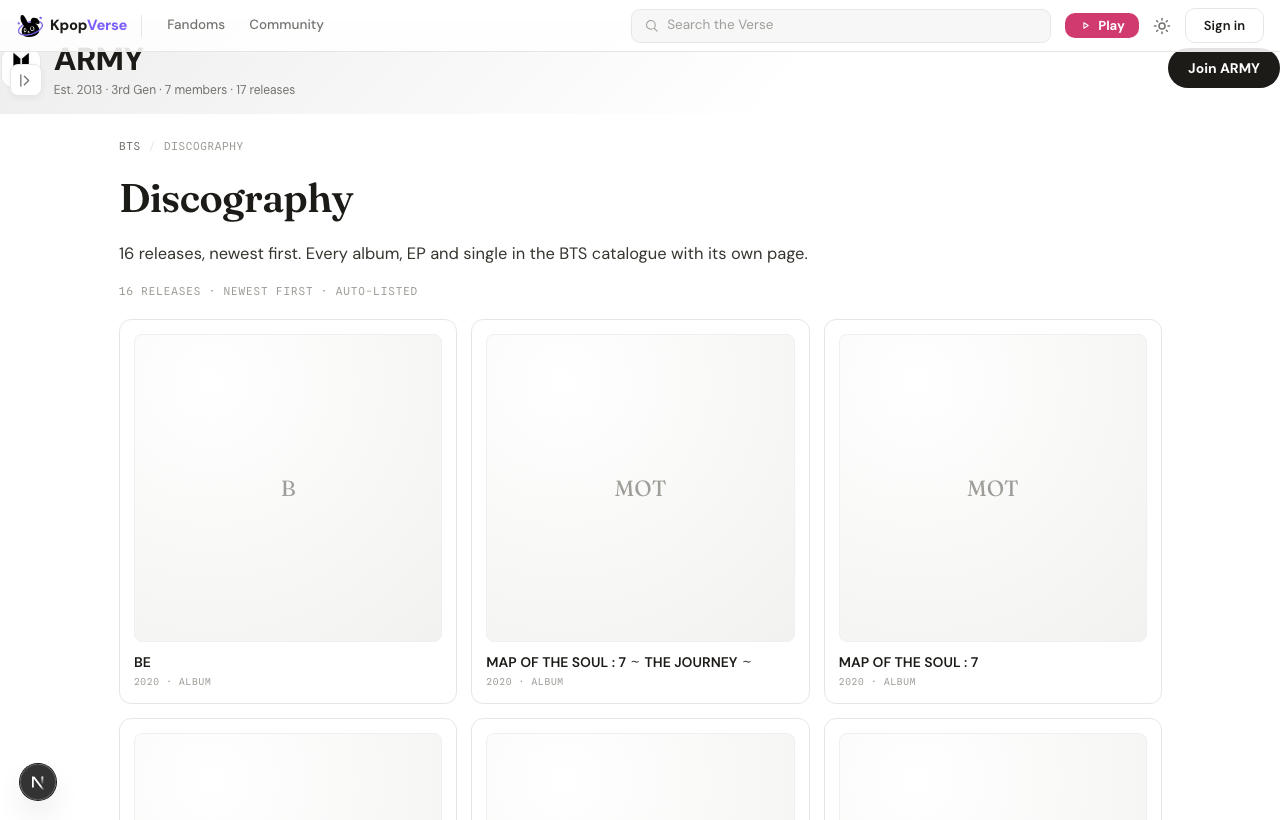
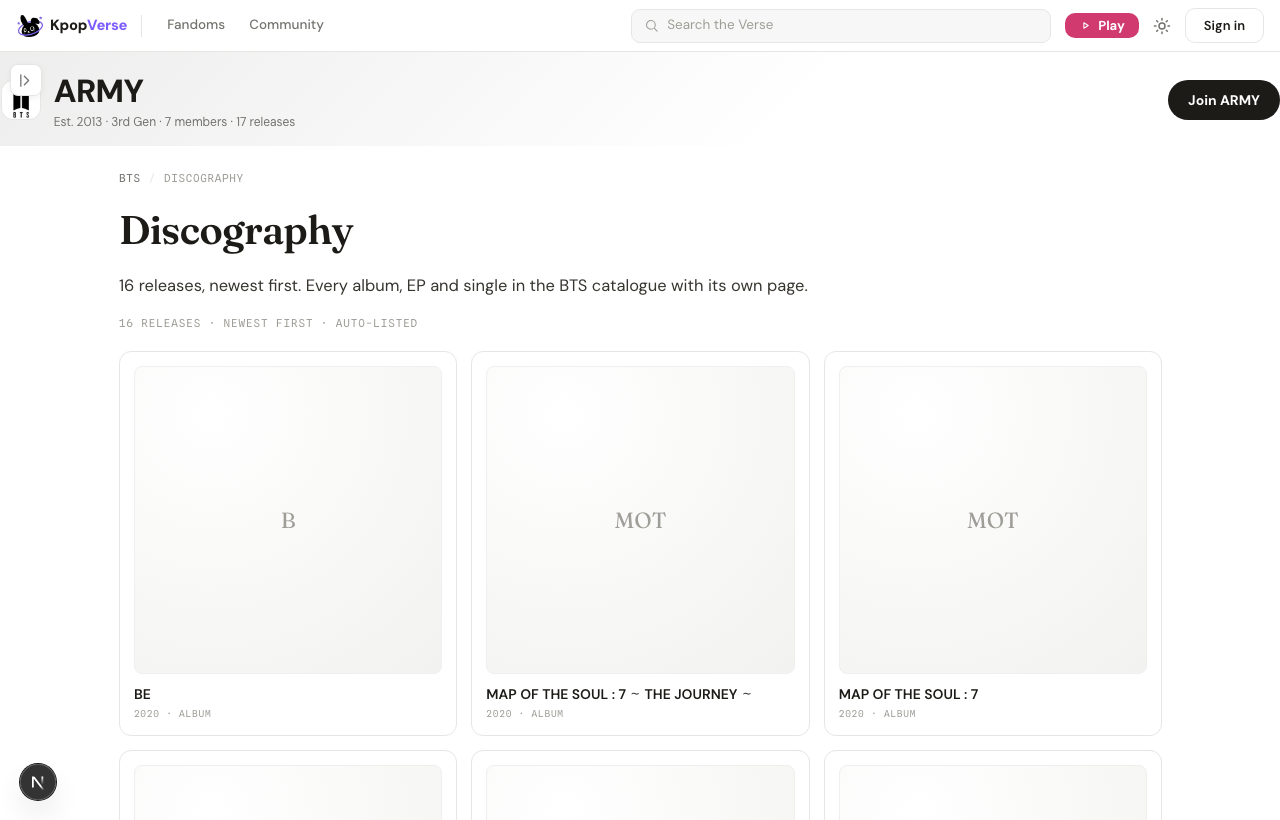
Verse iter-7 fix: stop the fixed top bar overlapping the compact hero
The compact page hero (.verse-hero) carries -mx (full-bleed width) plus a
negative -mt that used to pull it up into the page's old top padding, which
FIX1 removed. With the new fixed 52px top bar, that -mt slid the hero UNDER the
bar (the "ARMY" masthead + chip rendered behind it). Cancel just the top bleed
so the hero starts at the navmain content top (the bar's bottom); the horizontal
bleed is untouched. The home masthead (.vh2-home/.vh2-cover) never used this and
already sat below the bar; its hidden .verse-hero variant is unaffected.

Verified: the compact hero now starts at y=52 on content pages (was y=20), the
home content at y=76, and content stays flush to the footer. Proofs regenerated.

diff --git a/apps/quiz/src/styles/globals.css b/apps/quiz/src/styles/globals.css
@@ -6323,6 +6323,12 @@ main:has(.verse-page) { max-width: none; }
 
 /* ----- the shell + the space-only grey sidebar ----- */
 .v-navshell { display: flex; align-items: flex-start; gap: 0; padding-top: var(--v-topbar-h); }
+/* The hero cover uses -mx (full-bleed width) + a negative -mt that used to pull it up into the page's
+   old top padding (flush to y=0). FIX1 removed that padding and iter-7 added the fixed 52px top bar,
+   so the -mt now slips the hero UNDER the bar. Cancel just the top bleed: the hero starts at the
+   navmain content top (the bar's bottom); the horizontal bleed is untouched. */
+.v-navmain > .verse-hero,
+.v-navmain > * > .verse-hero { margin-top: 0; }
 .v-sidenav {
   flex: 0 0 var(--v-side-w); width: var(--v-side-w); align-self: stretch;
   background: var(--v2-nav); border-right: 1px solid var(--v2-line);
